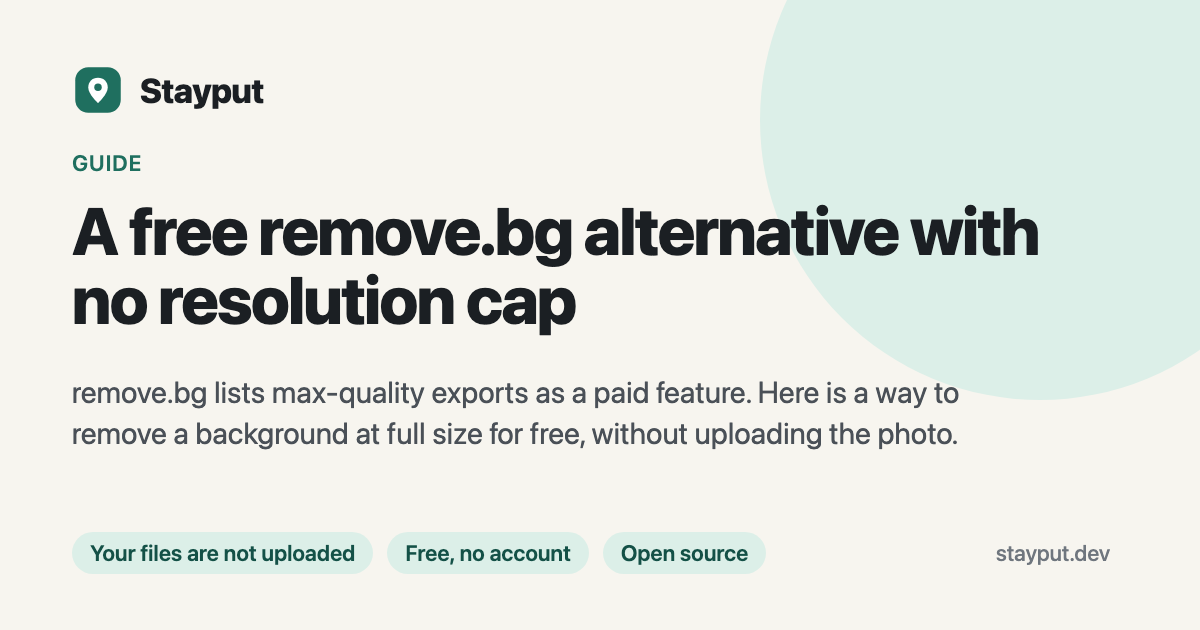
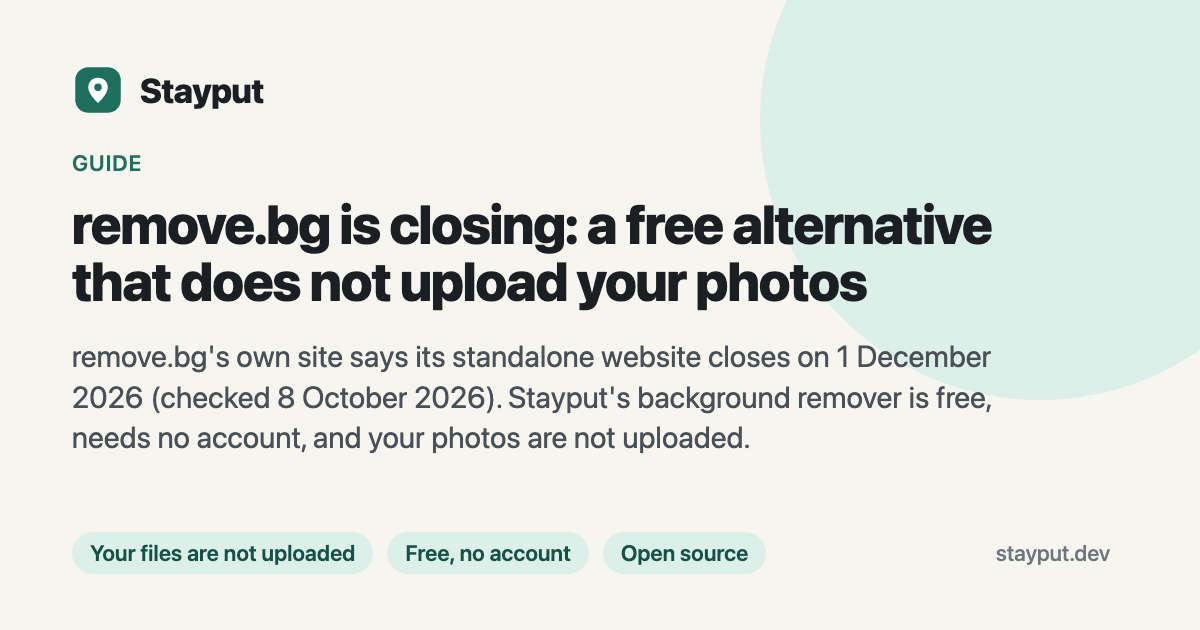
Rewrite the remove.bg alternative guide for the 1 December closure
Retitle and rewrite the guide around remove.bg's own closure notices, each
quoted with its check date and source. Add an FAQ entry and keyword to the
background remover page, link the guide from the two related guides, and
redraw the guide's link-preview card (long headings now use a smaller size so
the card does not overlap).

Changed region(s): [[0.0617, 0.3317, 0.8633, 0.7238]]

diff --git a/src/data/guides.ts b/src/data/guides.ts
@@ -1176,7 +1176,7 @@ export const guides: Guide[] = [
     heading: 'Is remove.bg safe?',
     dek: 'remove.bg is a legitimate Canva-owned service. Its policy gives no exact deletion time, and its website is closing, so it is worth knowing the options.',
     keywords: ['is remove.bg safe', 'remove.bg safe', 'is remove bg safe', 'is remove.bg legit', 'remove.bg privacy', 'remove.bg alternative no upload'],
-    updated: '2026-10-08',
+    updated: '2026-10-12',
     tools: ['remove-background', 'make-background-transparent', 'white-background', 'blur-image'],
     sections: [
       {
@@ -1201,6 +1201,7 @@ export const guides: Guide[] = [
         p: [
           'Short-lived storage is the norm for upload tools, but “shortly after” is not a number, so for private photos the safest copy is the one that is never uploaded.',
           'The move to Canva is the other thing to weigh: if you rely on remove.bg’s site, check the pricing page for what replaces it after 1 December 2026.',
+          'If you are looking for a replacement, see the [remove.bg alternative](/guides/remove-bg-alternative) guide.',
         ],
       },
       {
@@ -1230,7 +1231,7 @@ export const guides: Guide[] = [
     heading: 'How to remove the background from a photo',
     dek: 'iPhone, Android, Windows and Mac can all do this without an app. Here is how on each, and where they fall short.',
     keywords: ['how to remove background from a photo', 'remove background from image', 'cut out background iphone', 'remove background from photo android', 'transparent background photo', 'background eraser'],
-    updated: '2026-09-29',
+    updated: '2026-10-12',
     tools: ['remove-background', 'make-background-transparent', 'white-background', 'blur-background'],
     sections: [
       {
@@ -1267,6 +1268,7 @@ export const guides: Guide[] = [
         h: 'When the built-in tools fall short',
         p: [
           'These features are made for quick, single-photo edits: they can struggle with busy backgrounds, fine hair or fur, and low-contrast edges, and none of them let you process many photos at once or choose a plain white or blurred background instead of transparency. Stayput\'s [background remover](/tools/remove-background) runs an open-source segmentation model (ISNet) inside your browser tab, so it works offline after the model loads once, keeps your photo at full resolution, and never uploads anything. Use [Make background transparent](/make-background-transparent) for a PNG, [White background](/white-background) for product photos and headshots, or [Blur background](/blur-background) for a portrait-mode look.',
+          'If you have been using remove.bg, see [remove.bg is closing: alternatives](/guides/remove-bg-alternative).',
         ],
       },
     ],
@@ -2841,45 +2843,61 @@ export const guides: Guide[] = [
   },
   {
     slug: 'remove-bg-alternative',
-    title: 'A Free remove.bg Alternative With No Resolution Cap',
-    description: 'remove.bg lists max-quality exports as a paid feature, and says its standalone site is moving to Canva. Here is a browser-based background remover that returns the photo at its original resolution, with no upload.',
-    heading: 'A free remove.bg alternative with no resolution cap',
-    dek: 'remove.bg lists max-quality exports as a paid feature. Here is a way to remove a background at full size for free, without uploading the photo.',
-    keywords: ['remove.bg alternative', 'free remove.bg alternative', 'remove.bg alternative full resolution', 'remove.bg free high resolution', 'background remover no upload'],
-    updated: '2026-10-08',
+    title: 'remove.bg Alternative: It Closes 1 Dec 2026 (Free, No Upload)',
+    description: 'remove.bg says its website closes on 1 December 2026. Stayput removes backgrounds free, with no account, and your photos are not uploaded.',
+    heading: 'remove.bg is closing: a free alternative that does not upload your photos',
+    dek: 'remove.bg\'s own site says its standalone website closes on 1 December 2026 (checked 8 October 2026). Stayput\'s background remover is free, needs no account, and your photos are not uploaded.',
+    keywords: ['remove.bg alternative', 'remove.bg shutting down', 'remove.bg closing', 'remove.bg canva', 'remove.bg replacement', 'free remove.bg alternative', 'background remover no upload', 'remove.bg alternative full resolution'],
+    updated: '2026-10-12',
     tools: ['remove-background', 'make-background-transparent', 'white-background', 'blur-background'],
     sections: [
       {
-        h: 'What remove.bg does well',
+        h: 'remove.bg is closing on 1 December 2026',
         p: [
-          'remove.bg, owned by Canva, popularized instant AI background removal and produces clean cutouts on a wide range of photos, including tricky subjects like hair and fur. It is a legitimate, widely used tool.',
+          'remove.bg\'s site shows this notice (checked 8 October 2026): "remove.bg\'s background removal is moving to Canva. The standalone website will no longer be available from 1 December 2026 at 9:00am CET."',
+          'Its API page (checked 8 October 2026) says: "Starting December 1, 2026, background removal moves to Leonardo.Ai, also part of Canva." Its terms and conditions (checked 8 October 2026) say: "All credits (including pay-as-you-go (PAYG) credits, monthly rollover credits and any other type of credits) may be used until December 1 2026 only. Any unused credits will expire on that date and are non-refundable."',
+          'For what happens to subscriptions, refunds and accounts, read the notice on remove.bg itself (remove.bg/faq); we have not summarised it here.',
         ],
       },
       {
         h: 'Why people look for an alternative',
         p: [
-          'As of October 2026, per [remove.bg/pricing](https://www.remove.bg/pricing), remove.bg sells credits (pay-as-you-go packs and a monthly subscription) and lists max-quality exports as a paid feature. The same page says the standalone website will no longer be available from 1 December 2026, with background removal moving to Canva. For a print, a listing photo or a profile portrait, paying per image is the usual reason to look elsewhere.',
+          'On remove.bg\'s website, per its own site text (checked 8 October 2026), images up to 0.25 megapixels (for example 625 by 400 pixels) are always free; higher-resolution downloads up to 25 megapixels cost 1 credit per image.',
           'remove.bg is also a web service that processes photos on its servers. Its stated retention practices are covered in [Is remove.bg safe?](/guides/is-remove-bg-safe).',
         ],
       },
       {
         h: 'What changes with a browser-based tool',
         p: [
-          'Stayput\'s [background remover](/tools/remove-background) runs the cutout model (ISNet) directly in the browser using onnxruntime-web, so the output comes back at the photo\'s original resolution with no watermark, and the photo is never uploaded to produce the result. [Make background transparent](/make-background-transparent) and [white background](/white-background) apply the same cutout for a transparent PNG or a plain white backdrop, and [blur background](/blur-background) keeps the subject sharp while blurring everything behind it.',
+          'Stayput\'s [background remover](/tools/remove-background) runs the cutout model (ISNet) directly in the browser using onnxruntime-web, and it is free, with no account; your photos are not uploaded. The result is the same size as your photo (a 12 megapixel photo gives a 12 megapixel cut-out), limited by what your device can hold in memory, with no watermark and no credits. The first photo downloads the cut-out model (about 46 MB); the first run needs a connection, and after that the model is cached. After your first run you can turn off Wi-Fi and it keeps working.',
+          '[Make background transparent](/make-background-transparent) and [white background](/white-background) apply the same cutout for a transparent PNG or a plain white backdrop, and [blur background](/blur-background) keeps the subject sharp while blurring everything behind it. For a step-by-step walkthrough, see [how to remove the background from a photo](/guides/remove-background-from-a-photo).',
         ],
       },
       {
-        h: 'Where remove.bg still has the edge',
+        h: 'Where remove.bg and Stayput differ',
         p: [
-          'remove.bg\'s model may handle some especially difficult edge cases (fine hair strands, motion blur, very low contrast subjects) better than a smaller model that runs entirely in a browser tab. For most everyday product photos, portraits and pet pictures, a full-resolution local cutout with no fee is the more practical choice.',
+          'Stayput has no API, no desktop app and no Photoshop plug-in. If you used remove.bg through its API, that moves to Leonardo.Ai per remove.bg\'s API page (checked 8 October 2026).',
+          'We use one general-purpose model (ISNet, 8-bit weights). We have not run a side-by-side comparison with remove.bg, so we cannot say which cuts fine hair or low-contrast subjects better. Fine hair and fur are kept as soft edges; if part of the subject goes missing or background stays, try the "Keep around the edges" setting.',
+          'Each photo takes a few seconds depending on your device, and the first run waits for the 46 MB download.',
+          'You can drop several photos and download them in one zip.',
+        ],
+      },
+      {
+        h: 'Before 1 December',
+        p: [
+          'Per remove.bg\'s terms (checked 8 October 2026), unused credits expire on 1 December 2026 and are non-refundable, so use them or finish your cut-outs before then.',
         ],
       },
     ],
     faq: [
-      { q: 'Is there a free way to remove a background at full resolution?', a: 'Yes. A background remover that runs the cutout model in your own browser returns the full-resolution result with no watermark, because the model runs on your device and your photo is not uploaded.' },
-      { q: 'Does remove.bg charge for full-quality results?', a: 'As of October 2026, its pricing page lists max-quality exports as a paid feature, sold as credits or a monthly subscription.' },
-      { q: 'Does a browser-based background remover work as well as remove.bg?', a: 'For most everyday photos, yes; remove.bg\'s model can have an edge on especially difficult cases like very fine hair or low-contrast subjects, refined over a larger dataset.' },
-      { q: 'Is my photo uploaded to remove a background locally?', a: 'No. A tool that runs the cutout model in the browser processes the image on your device, and you can confirm that the photo is never uploaded in your browser\'s network panel. The model itself downloads once, on first use.' },
+      { q: 'Is remove.bg shutting down?', a: 'Its own site says so. A notice on remove.bg (checked 8 October 2026) states: "The standalone website will no longer be available from 1 December 2026 at 9:00am CET." It says background removal is moving to Canva.' },
+      { q: 'What happens to my remove.bg credits?', a: 'Its terms and conditions (checked 8 October 2026) say unused credits expire on 1 December 2026 and are non-refundable.' },
+      { q: 'What happens to the remove.bg API?', a: 'Its API page (checked 8 October 2026) says that from 1 December 2026 background removal moves to Leonardo.Ai, also part of Canva. Stayput has no API.' },
+      { q: 'Is there a free remove.bg alternative that does not upload my photos?', a: 'Yes. Stayput\'s background remover is free, needs no account, and your photos are not uploaded: the cut-out model runs in your browser tab. The first run downloads the model (about 46 MB), so it needs a connection then.' },
+      { q: 'Does it work as well as remove.bg?', a: 'We have not compared them side by side. Stayput uses one general-purpose model, and fine hair and low-contrast subjects may need a second try with the edge setting. There is no API, desktop app or plug-in.' },
+      { q: 'Is the result full resolution?', a: 'It is the same size as your photo: a 12 megapixel photo gives a 12 megapixel cut-out, limited by what your device can hold in memory. There is no low-resolution preview and no watermark.' },
+      { q: 'Can I do many photos at once?', a: 'Yes. Drop several photos and download them all in one zip.' },
+      { q: 'Why is remove.bg\'s free result small?', a: 'Per its site text (checked 8 October 2026), images up to 0.25 megapixels are free and higher-resolution downloads cost a credit.' },
     ],
   },
   {

diff --git a/src/data/tools.ts b/src/data/tools.ts
@@ -3451,7 +3451,7 @@ export const tools: Tool[] = [
         ],
       },
     ],
-    keywords: ['remove background', 'background remover', 'remove background from image', 'transparent background', 'make background transparent', 'remove bg', 'cut out image', 'white background'],
+    keywords: ['remove background', 'background remover', 'remove background from image', 'transparent background', 'make background transparent', 'remove bg', 'remove.bg alternative', 'cut out image', 'white background'],
     steps: [
       'Drop one or more photos (JPG, PNG, WebP, HEIC, AVIF or JPEG XL), or tap to pick them.',
       'Choose a transparent, white or coloured background, or keep the scene and blur it, and the file type. The first photo downloads the cut-out model once; after that it is cached.',
@@ -3494,6 +3494,10 @@ export const tools: Tool[] = [
       {
         q: 'Which model does this use?',
         a: 'ISNet general-use from the DIS research project (see the licenses page for its licensing), converted to 8-bit weights so it downloads faster. It runs with onnxruntime-web, Microsoft’s open-source runtime for machine learning models in the browser.',
+      },
+      {
+        q: 'Is this an alternative to remove.bg?',
+        a: 'It does the same job in your browser. remove.bg\'s own site says its standalone website closes on 1 December 2026 (checked 8 October 2026). This is free, needs no account, and your photos are not uploaded; the first run downloads a model of about 46 MB. There is no API. See [remove.bg alternatives](/guides/remove-bg-alternative).',
       },
     ],
   },
